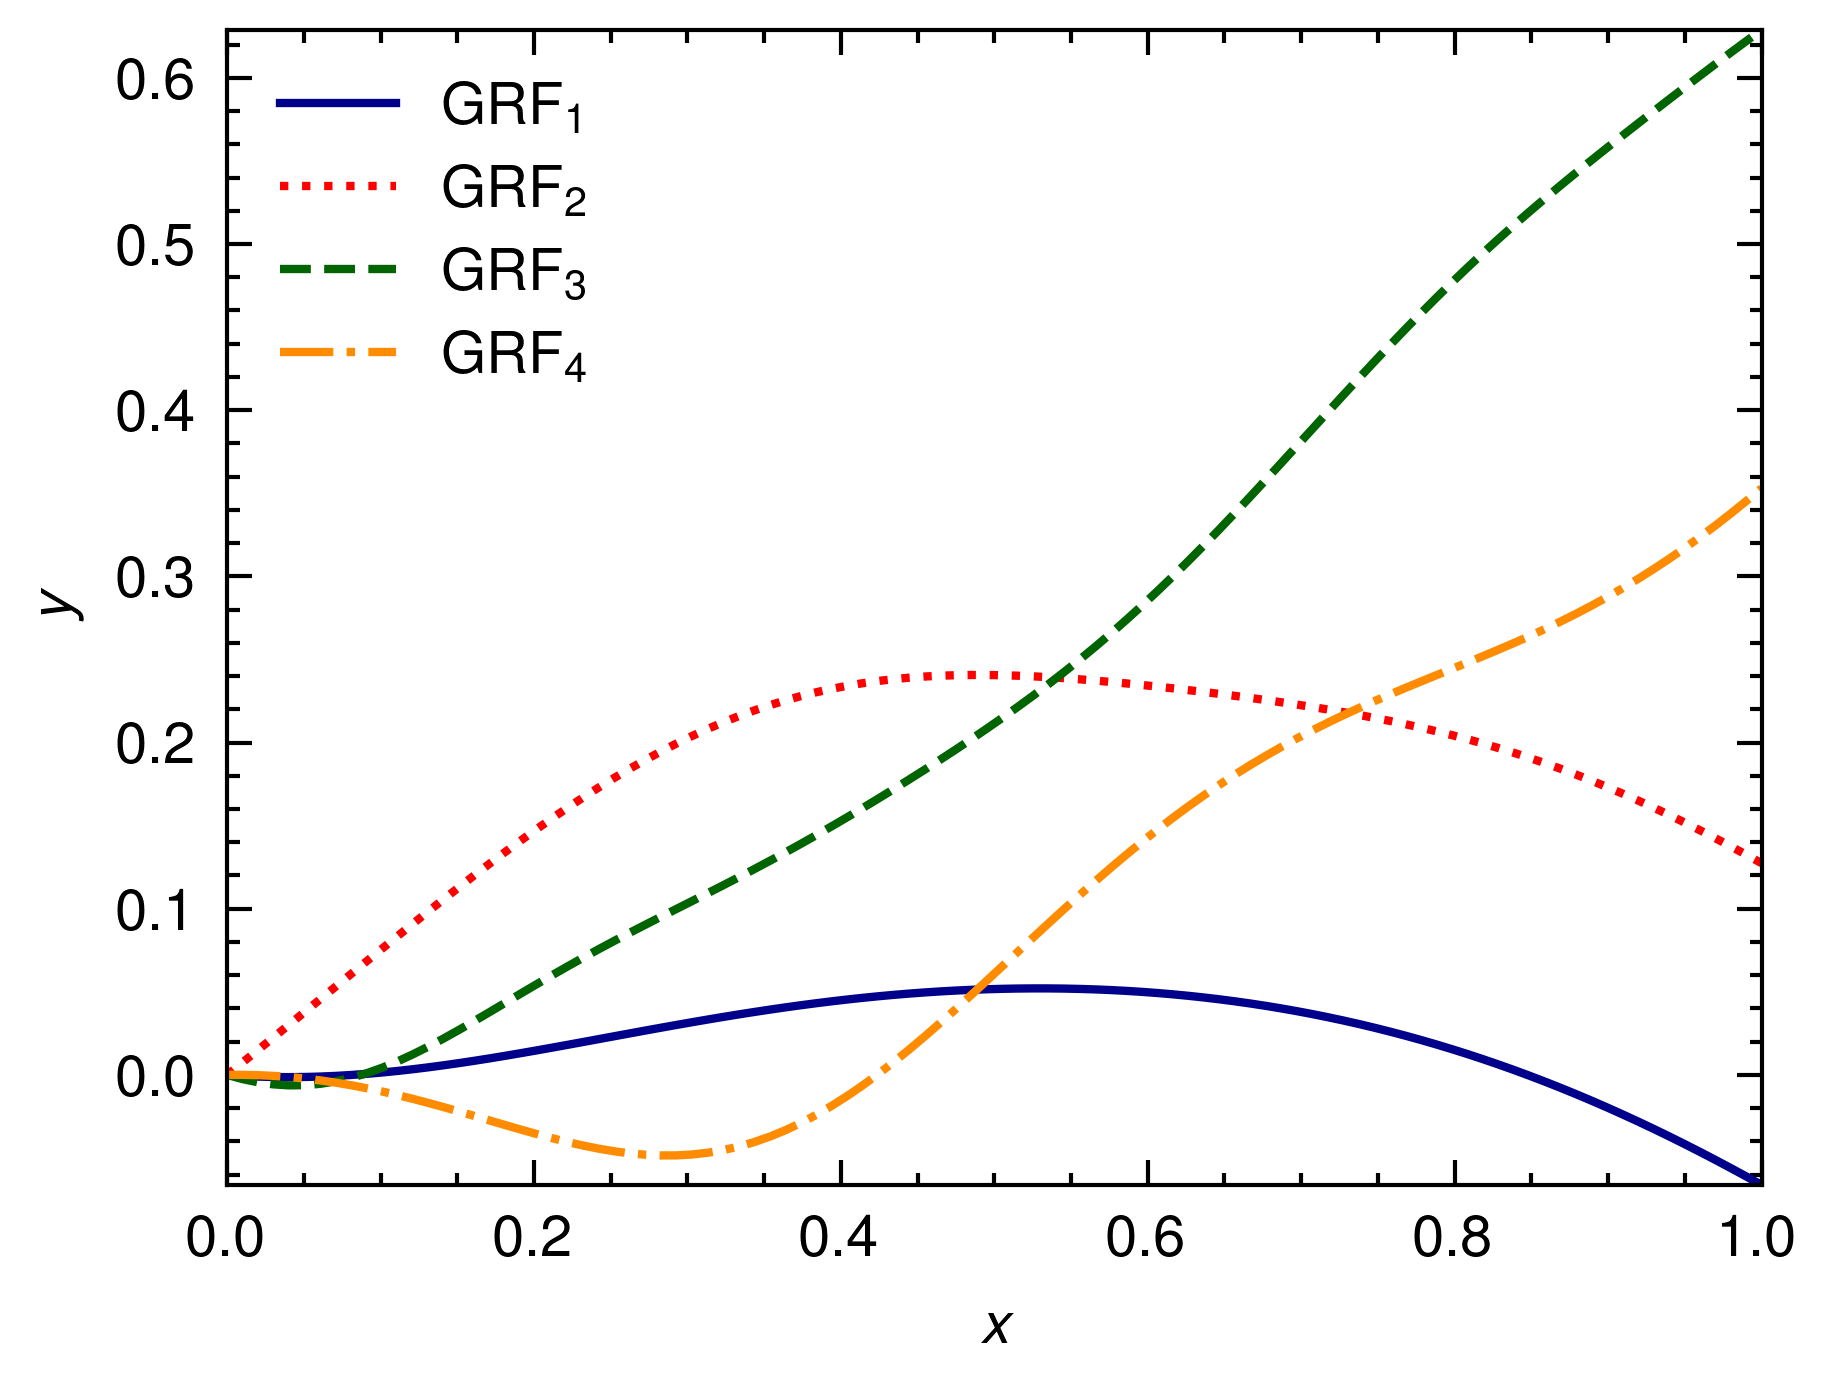
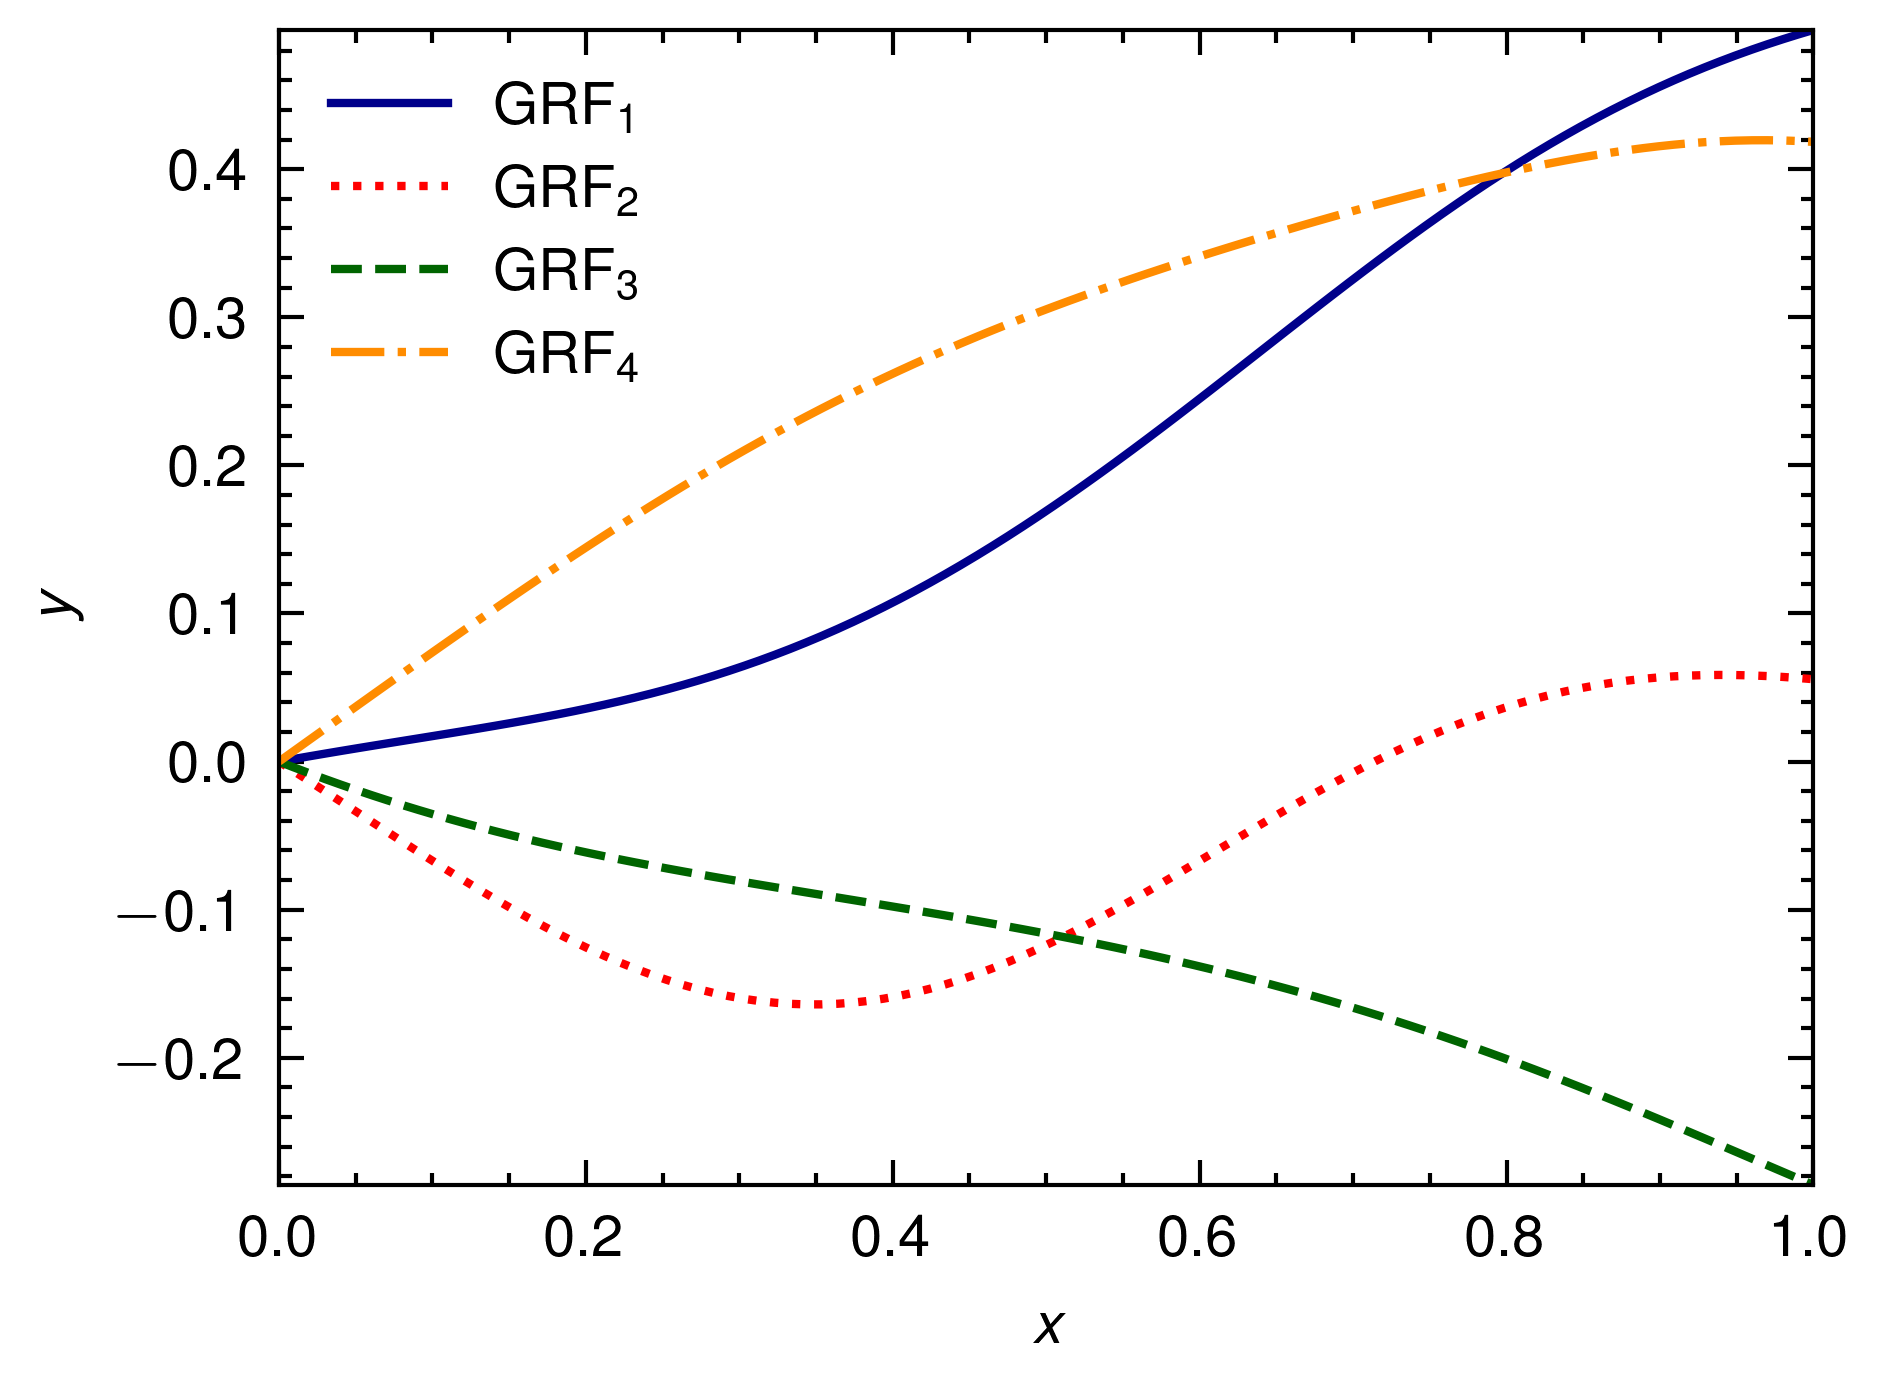
Random l uniform data

diff --git a/src/main.rs b/src/main.rs
@@ -9,10 +9,11 @@ fn main() {
     let x_max = 1f64;
     let n = 10000;
     let x_len = 1000;
-    let l_uniform = WeightedUniform::new(
-        vec![4f64, 3f64, 2f64, 1f64],
-        vec![0.1, 0.2, 0.3, 0.4, 0.5],
-    );
+    //let l_uniform = WeightedUniform::new(
+    //    vec![3f64, 3f64, 2f64, 2f64],
+    //    vec![0.1, 0.2, 0.3, 0.4, 0.5],
+    //);
+    let l_uniform = Uniform(0.1, 0.5);
     let l_samples = l_uniform.sample(n);
 
     let grf_vec = l_samples
